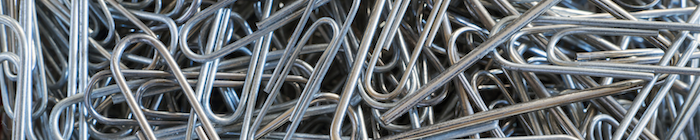
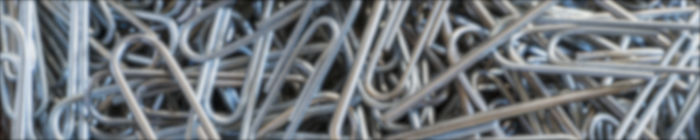
Header image is pre-blurred, simpler CSS.
And looks fine in Safari, Chrome and Firefox.

diff --git a/app/assets/stylesheets/default.css.scss b/app/assets/stylesheets/default.css.scss
@@ -315,38 +315,14 @@ footer {
   background: $brand_blue;
   text-align: center;
 
-  h1:before {
-    content: "";
-    position: fixed;
-    top: 0;
-    left: 0;
-    right: 0;
-    z-index: -1;
-
-    display: block;
-    background-image: image-url('paperclips.png');
-    width: 700px;
-    height: 140px;
-    margin: 0 auto;
-
-    -webkit-filter: blur(2px);
-    -moz-filter: blur(2px);
-    -o-filter: blur(2px);
-    -ms-filter: blur(2px);
-    filter: blur(2px);
-  }
-
   h1 {
-    overflow: auto;
-    position: relative;
+    background-image: image-url('paperclips.png');
     max-width: 690px;
     border-left: 5px solid black;
     border-right: 5px solid black;
-    width: auto;
     display: block;
     margin: 0 auto;
     padding: 0.75em 0;
-    z-index: 0;
     color: $offwhite;
     text-shadow:
       -2px -2px 0 #000,
